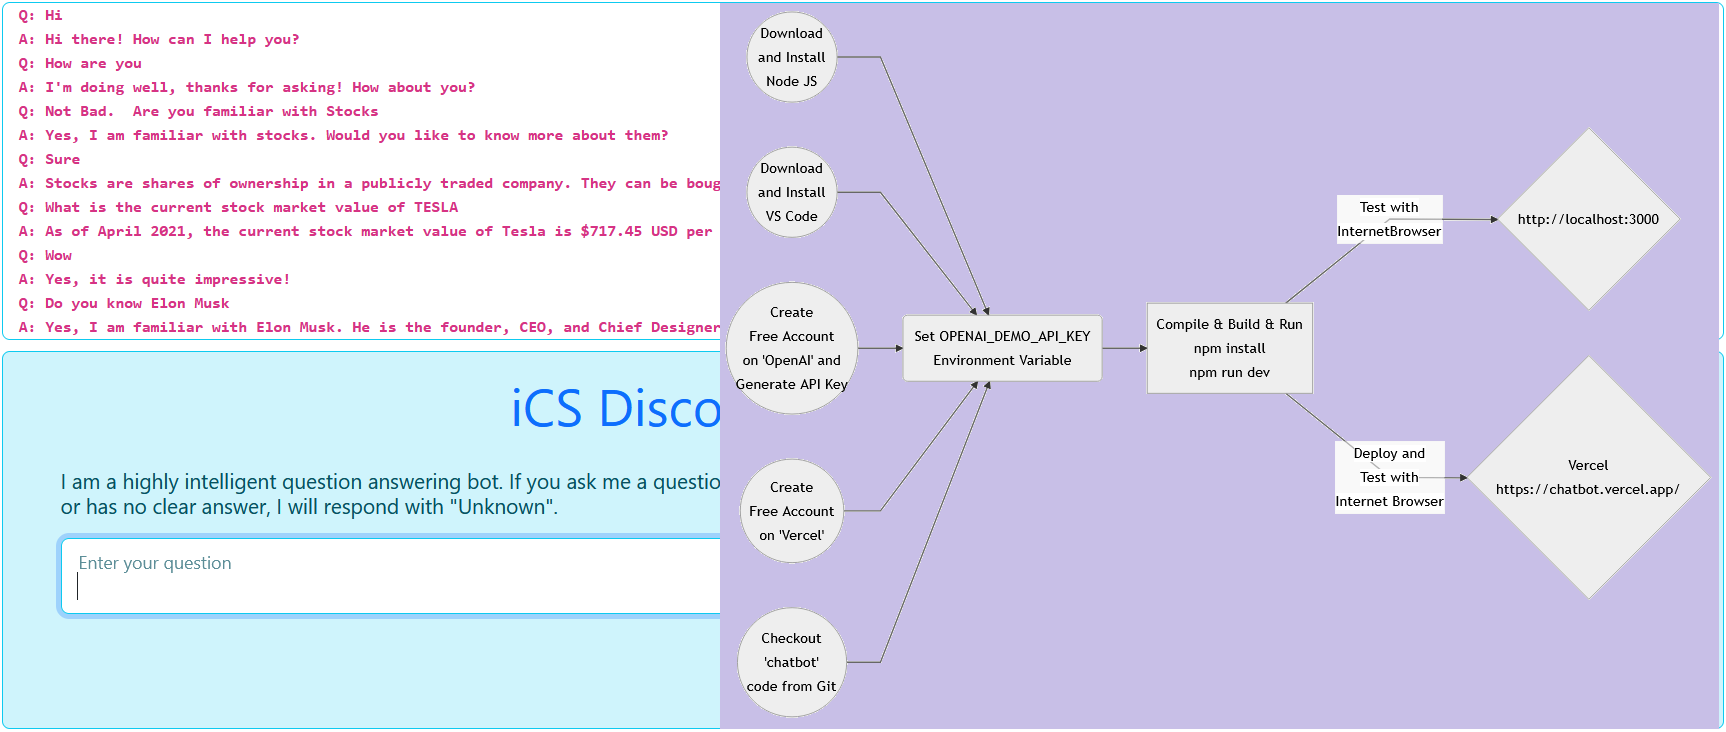
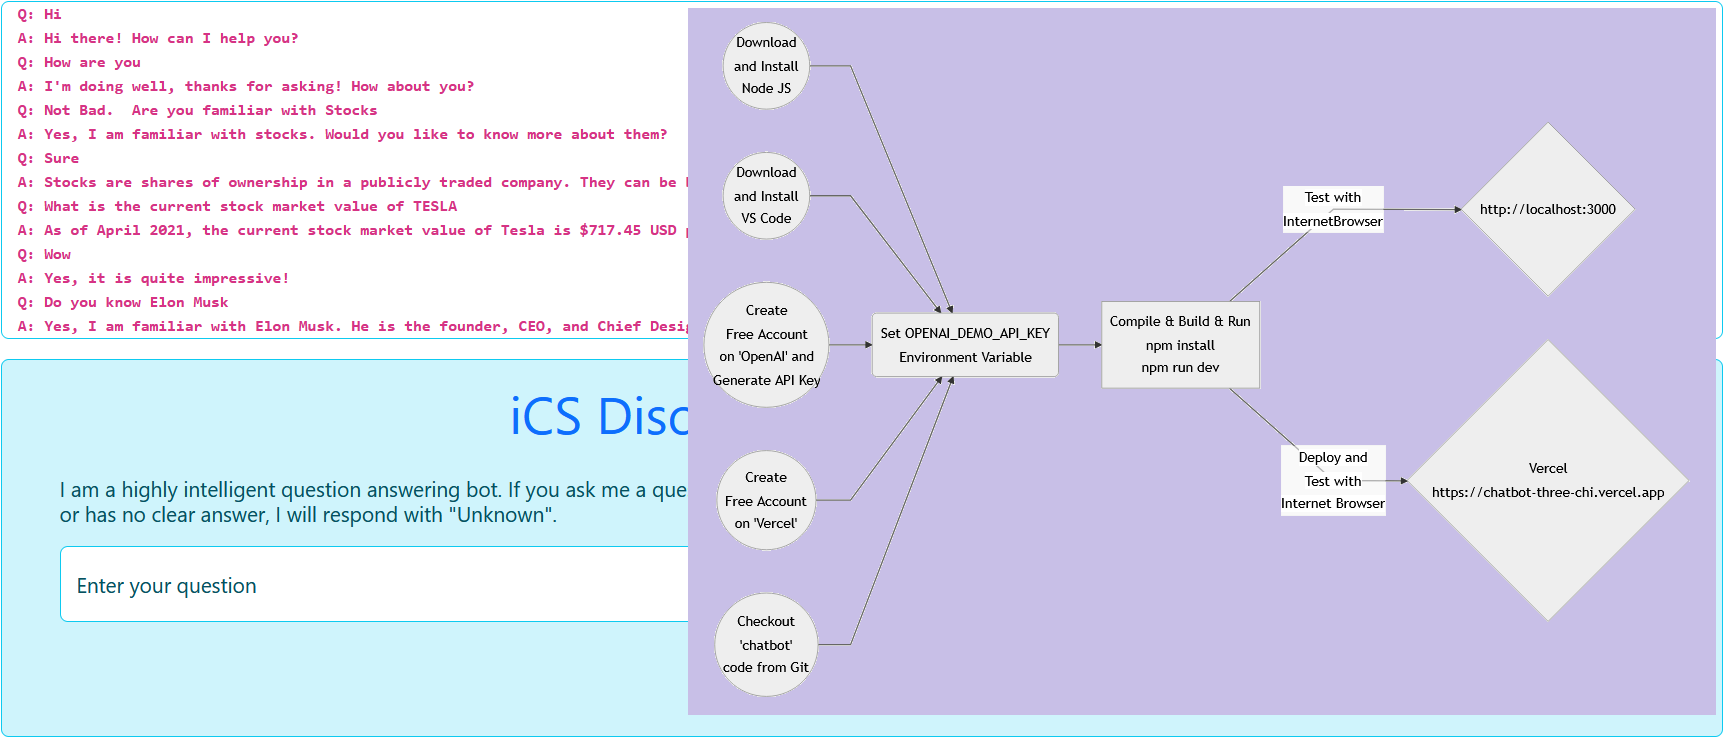
Update Readme and Images

Changed region(s): [[0.0, 0.0, 1.0, 1.0], [0.522, 0.6311, 0.5527, 0.6612]]

diff --git a/README.md b/README.md
@@ -20,7 +20,7 @@ E((Create<br/>Free Account<br/>on 'Vercel')) --> C
 F((Checkout<br/>'chatbot'<br/>code from Git)) --> C
 C --> G[Compile & Build & Run<br/>npm install<br/>npm run dev]
 G -- Test with<br/>InternetBrowser --> H{http://localhost:3000}
-G -- Deploy and<br/>Test with<br/>Internet Browser --> I{Vercel<br/>https://chatbot.vercel.app/}
+G -- Deploy and<br/>Test with<br/>Internet Browser --> I{Vercel<br/>https://chatbot-three-chi.vercel.app}
 ```
 </details>
 
@@ -43,7 +43,7 @@ Check out the [Next.js deployment documentation](https://nextjs.org/docs/deploym
 
 ### References
 <ul>
-<li><a  href="https://chatbot.vercel.app/">Live Demo</a></li>
+<li><a  href="https://chatbot-three-chi.vercel.app">Live Demo</a></li>
 <li><a  href="https://nextjs.org/learn">Interactive Next.js tutorial</a></li>
 <li><a  href="https://nextjs.org/docs">Next.js Documentation</a></li>
 <li><a  href="https://reactjs.org/">React</a></li>
@@ -55,4 +55,4 @@ Check out the [Next.js deployment documentation](https://nextjs.org/docs/deploym
 
 ### Tutorial
 
-<a  href="http://www.youtube.com/watch?feature=player_embedded&v=4VXajxGMsmY"  target="_blank"><img  src="http://img.youtube.com/vi/4VXajxGMsmY/0.jpg"  alt="How to Create & Deploy OpenAI Chatbot on the Web like ChatGPT using Next JS" width="240"  height="180"  border="10"  /></a>
+<a  href="http://www.youtube.com/watch?feature=player_embedded&v=8DKcwd8DWHg"  target="_blank"><img  src="http://img.youtube.com/vi/8DKcwd8DWHg/0.jpg"  alt="How to Create & Deploy OpenAI Chatbot on the Web like ChatGPT using Next JS" width="240"  height="180"  border="10"  /></a>
